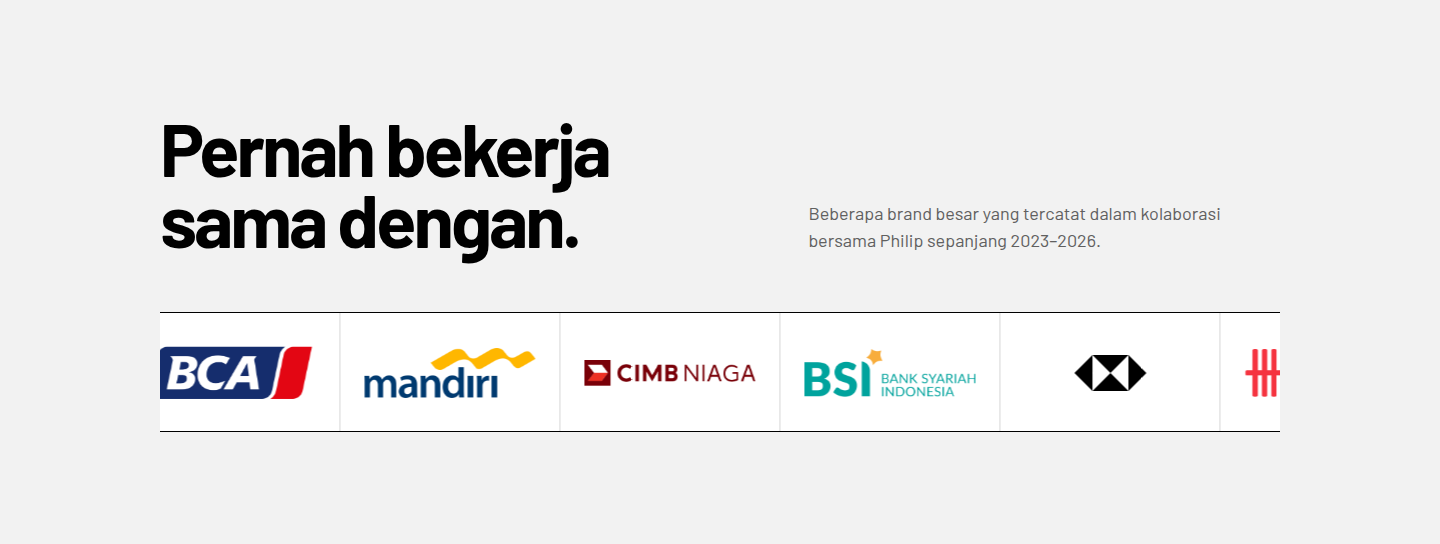
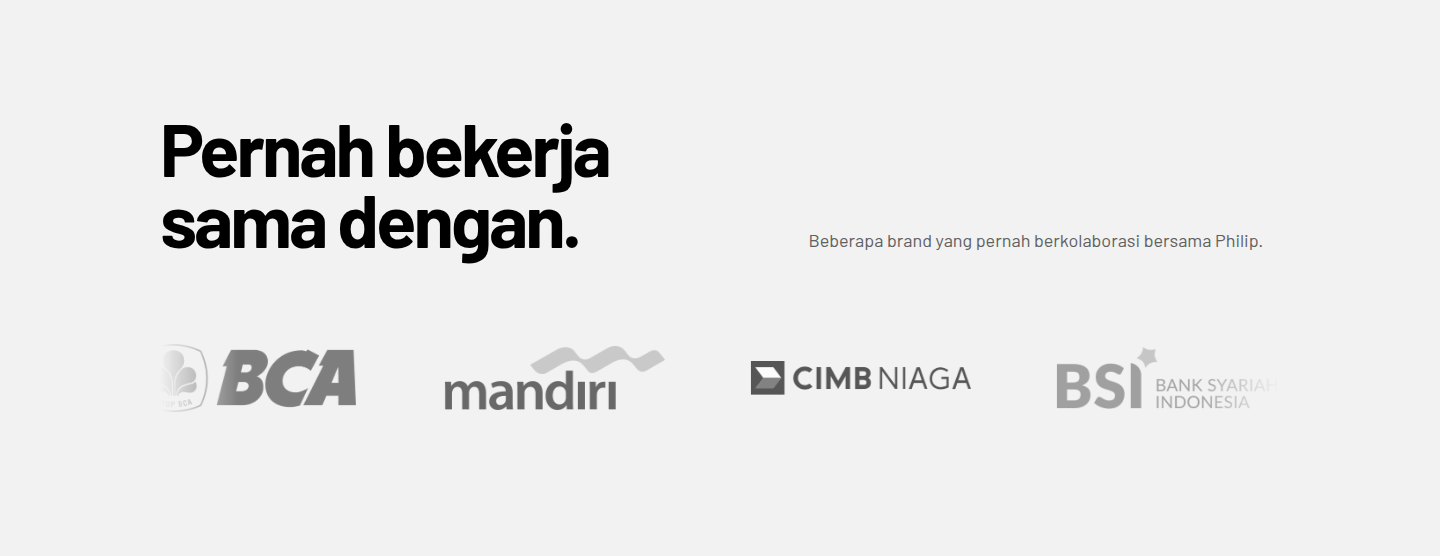
[verified] fix: repair mobile partner carousel (#16)

diff --git a/index.html b/index.html
@@ -10,7 +10,7 @@
   <link rel="preload" href="/assets/homepage/fonts/barlow-400.woff2" as="font" type="font/woff2" crossorigin>
   <link rel="preload" href="/assets/homepage/fonts/barlow-700.woff2" as="font" type="font/woff2" crossorigin>
   <link rel="preload" href="/assets/homepage/profile-photo.webp" as="image" type="image/webp">
-  <link rel="stylesheet" href="/assets/site/site.css">
+  <link rel="stylesheet" href="/assets/site/site.css?v=20260918-carousel2">
   <link rel="stylesheet" href="/assets/homepage/homepage.css">
   <meta property="og:type" content="website">
   <meta property="og:locale" content="id_ID">
@@ -62,27 +62,27 @@
       <div class="container">
         <div class="section-heading">
           <h2 id="company-proof-heading">Pernah bekerja sama dengan.</h2>
-          <p>Beberapa brand besar yang tercatat dalam kolaborasi bersama Philip sepanjang 2023–2026.</p>
+          <p>Beberapa brand yang pernah berkolaborasi bersama Philip.</p>
         </div>
         <p id="partner-motion-note" class="sr-only">Fokus pada carousel untuk menghentikan animasi.</p>
         <div class="partner-carousel" tabindex="0" aria-label="Carousel brand yang pernah bekerja sama dengan Philip Mulyana" aria-describedby="partner-motion-note">
           <div class="partner-track">
             <ul class="partner-logo-group" aria-label="Brand yang pernah bekerja sama dengan Philip Mulyana">
-              <li><img src="/assets/partners/bca.png" alt="Bank BCA" width="180" height="72" loading="lazy" decoding="async"></li>
+              <li><img src="/assets/partners/bca-official.png" alt="Bank BCA" width="180" height="72" loading="lazy" decoding="async"></li>
               <li><img src="/assets/partners/bank-mandiri.png" alt="Bank Mandiri" width="180" height="72" loading="lazy" decoding="async"></li>
               <li><img src="/assets/partners/cimb-niaga.png" alt="Bank CIMB Niaga" width="180" height="72" loading="lazy" decoding="async"></li>
               <li><img src="/assets/partners/bsi.png" alt="BSI (Bank Syariah Indonesia)" width="180" height="72" loading="lazy" decoding="async"></li>
-              <li><img src="/assets/partners/hsbc.svg" alt="HSBC" width="180" height="72" loading="lazy" decoding="async"></li>
+              <li><img src="/assets/partners/hsbc-wordmark.svg" alt="HSBC" width="180" height="72" loading="lazy" decoding="async"></li>
               <li><img src="/assets/partners/uob.png" alt="UOB" width="180" height="72" loading="lazy" decoding="async"></li>
               <li><img src="/assets/partners/visa.svg" alt="Visa" width="180" height="72" loading="lazy" decoding="async"></li>
               <li><img src="/assets/partners/pertamina.png" alt="Pertamina" width="180" height="72" loading="lazy" decoding="async"></li>
             </ul>
             <ul class="partner-logo-group" aria-hidden="true">
-              <li><img src="/assets/partners/bca.png" alt="" width="180" height="72" loading="lazy" decoding="async"></li>
+              <li><img src="/assets/partners/bca-official.png" alt="" width="180" height="72" loading="lazy" decoding="async"></li>
               <li><img src="/assets/partners/bank-mandiri.png" alt="" width="180" height="72" loading="lazy" decoding="async"></li>
               <li><img src="/assets/partners/cimb-niaga.png" alt="" width="180" height="72" loading="lazy" decoding="async"></li>
               <li><img src="/assets/partners/bsi.png" alt="" width="180" height="72" loading="lazy" decoding="async"></li>
-              <li><img src="/assets/partners/hsbc.svg" alt="" width="180" height="72" loading="lazy" decoding="async"></li>
+              <li><img src="/assets/partners/hsbc-wordmark.svg" alt="" width="180" height="72" loading="lazy" decoding="async"></li>
               <li><img src="/assets/partners/uob.png" alt="" width="180" height="72" loading="lazy" decoding="async"></li>
               <li><img src="/assets/partners/visa.svg" alt="" width="180" height="72" loading="lazy" decoding="async"></li>
               <li><img src="/assets/partners/pertamina.png" alt="" width="180" height="72" loading="lazy" decoding="async"></li>

diff --git a/assets/site/site.css b/assets/site/site.css
@@ -60,12 +60,13 @@ button,input,select{font:inherit}
 .fact+.fact{padding-left:24px;border-left:1px solid var(--line)}
 .fact strong{display:block;font-size:25px;line-height:1}
 .fact span{display:block;margin-top:7px;color:var(--muted);font-size:14px}
-.partner-proof{background:var(--soft)}
-.partner-carousel{overflow:hidden;border-block:1px solid var(--black);outline-offset:6px}
-.partner-track{display:flex;width:max-content;animation:partner-marquee 40s linear infinite;will-change:transform}
-.partner-logo-group{display:flex;flex:none;margin:0;padding:0;list-style:none}
-.partner-logo-group li{display:grid;width:220px;height:118px;padding:24px;place-items:center;border-right:1px solid var(--line);background:var(--white)}
-.partner-logo-group img{display:block;width:180px;height:72px;object-fit:contain}
+.partner-proof{overflow:hidden;background:var(--soft)}
+.partner-carousel{overflow:hidden;outline-offset:6px;-webkit-mask-image:linear-gradient(90deg,transparent 0,#000 7%,#000 93%,transparent 100%);mask-image:linear-gradient(90deg,transparent 0,#000 7%,#000 93%,transparent 100%)}
+.partner-track{display:flex;width:max-content;animation:partner-marquee 32s linear infinite;will-change:transform}
+.partner-logo-group{display:flex;flex:none;gap:clamp(44px,6vw,92px);margin:0;padding:20px clamp(22px,3vw,46px);list-style:none}
+.partner-logo-group li{display:grid;width:clamp(150px,17vw,220px);height:92px;padding:0;place-items:center}
+.partner-logo-group img{display:block;width:100%;height:68px;object-fit:contain;filter:grayscale(1);opacity:.56;transition:opacity .2s ease}
+.partner-carousel:hover .partner-logo-group img,.partner-carousel:focus-within .partner-logo-group img{opacity:.72}
 .partner-carousel:hover .partner-track,.partner-carousel:focus-within .partner-track{animation-play-state:paused}
 @keyframes partner-marquee{to{transform:translateX(-50%)}}
 .timeline{border-top:1px solid var(--black)}
@@ -136,8 +137,9 @@ button,input,select{font:inherit}
   .fact-grid{grid-template-columns:1fr}
   .fact,.fact+.fact{padding:18px 0;border-left:0}
   .fact+.fact{border-top:1px solid var(--line)}
-  .partner-logo-group li{width:172px;height:96px;padding:18px}
-  .partner-logo-group img{width:136px;height:58px}
+  .partner-logo-group{gap:34px;padding:14px 24px}
+  .partner-logo-group li{width:148px;height:84px}
+  .partner-logo-group img{height:58px}
   .timeline-item{grid-template-columns:82px 1fr;gap:20px}
   .timeline-item time{font-size:23px}
   .row-link,.row-item,.tool-row{grid-template-columns:1fr 26px;gap:12px;padding:24px 0}
@@ -165,7 +167,7 @@ button,input,select{font:inherit}
 @media (prefers-reduced-motion:reduce){
   html{scroll-behavior:auto}
   *,*::before,*::after{transition-duration:.01ms!important;animation-duration:.01ms!important;animation-iteration-count:1!important}
-  .partner-carousel{overflow:visible}
+  .partner-carousel{overflow:visible;-webkit-mask-image:none;mask-image:none}
   .partner-track{display:block;width:auto;animation:none!important;will-change:auto}
   .partner-logo-group:first-child{display:grid;grid-template-columns:repeat(4,minmax(0,1fr))}
   .partner-logo-group:first-child li{width:auto}

diff --git a/tests/test_multipage_redesign.py b/tests/test_multipage_redesign.py
@@ -1,3 +1,4 @@
+import hashlib
 import json
 import re
 import unittest
@@ -93,11 +94,11 @@ class HomepageContract(unittest.TestCase):
 
     def test_homepage_partner_proof_is_lightweight_accessible_logo_carousel(self):
         expected_partners = {
-            "Bank BCA": "bca.png",
+            "Bank BCA": "bca-official.png",
             "Bank Mandiri": "bank-mandiri.png",
             "Bank CIMB Niaga": "cimb-niaga.png",
             "BSI (Bank Syariah Indonesia)": "bsi.png",
-            "HSBC": "hsbc.svg",
+            "HSBC": "hsbc-wordmark.svg",
             "Pertamina": "pertamina.png",
             "UOB": "uob.png",
             "Visa": "visa.svg",
@@ -115,6 +116,7 @@ class HomepageContract(unittest.TestCase):
         attributes, section = section_match.groups()
         self.assertNotIn("hidden", attributes)
         self.assertIn("Pernah bekerja sama dengan", section)
+        self.assertNotIn("2023–2026", section)
         self.assertNotIn("49 brand", section)
         self.assertIn('class="partner-carousel"', section)
         self.assertIn('aria-describedby="partner-motion-note"', section)
@@ -169,6 +171,36 @@ class HomepageContract(unittest.TestCase):
             self.assertNotIn(insurance_brand, section)
         for placeholder in ("Brand 1", "Brand 2", "Brand 3", "Brand 4", "Brand 5", "Brand 6"):
             self.assertNotIn(placeholder, section)
+
+    def test_homepage_partner_carousel_uses_fresh_css_and_verified_full_wordmarks(self):
+        self.assertIn(
+            'href="/assets/site/site.css?v=20260918-carousel2"',
+            self.html,
+        )
+
+        expected_asset_hashes = {
[2 lines of base64/hex data omitted]
+        }
+        for relative_path, expected_hash in expected_asset_hashes.items():
+            actual_hash = hashlib.sha256((ROOT / relative_path).read_bytes()).hexdigest()
+            self.assertEqual(actual_hash, expected_hash, relative_path)
+
+        provenance = read("assets/partners/PROVENANCE.md")
+        self.assertIn("https://www.bca.co.id/id/tentang-bca/media-riset/pressroom/Brand-Assets", provenance)
+        self.assertIn("https://commons.wikimedia.org/wiki/File:HSBC_logo_(2018).svg", provenance)
+        self.assertNotIn("File:BCA_logo.svg", provenance)
+        self.assertNotIn("simple-icons/simple-icons/blob/16.31.0/icons/hsbc.svg", provenance)
+
+        css = read("assets/site/site.css")
+        partner_css = css[css.index(".partner-proof"):css.index(".timeline")]
+        compact_partner_css = re.sub(r"\s+", "", partner_css)
+        self.assertIn("filter:grayscale(1)", compact_partner_css)
+        self.assertIn("opacity:.56", compact_partner_css)
+        self.assertIn("mask-image:linear-gradient", compact_partner_css)
+        self.assertIn("-webkit-mask-image:linear-gradient", compact_partner_css)
+        self.assertNotIn("border-right", compact_partner_css)
+        self.assertNotIn("background:var(--white)", compact_partner_css)
 
     def test_homepage_latest_articles_match_three_latest_valid_static_posts(self):
         posts = json.loads(read("data/posts.json"))["posts"]

diff --git a/assets/partners/PROVENANCE.md b/assets/partners/PROVENANCE.md
@@ -12,13 +12,13 @@ The carousel is a selected set of broadly recognizable, non-insurance brands. It
 
 | Local file | Brand | Source page | Derivative |
 |---|---|---|---|
-| `bca.png` | Bank BCA | https://commons.wikimedia.org/wiki/File:BCA_logo.svg | 500 px PNG rendered by Wikimedia Commons |
+| `bca-official.png` | Bank BCA | https://www.bca.co.id/id/tentang-bca/media-riset/pressroom/Brand-Assets | Official blue BCA logo; transparent outer canvas trimmed, then proportionally resized to 500 × 157 px and losslessly optimized; no visible logo pixel was cropped, recolored, or reshaped |
 | `bank-mandiri.png` | Bank Mandiri | https://commons.wikimedia.org/wiki/File:Bank_Mandiri_logo_2016.svg | 500 px PNG rendered by Wikimedia Commons |
 | `cimb-niaga.png` | Bank CIMB Niaga | https://commons.wikimedia.org/wiki/File:CIMB_Niaga_logo.svg | 500 px PNG rendered by Wikimedia Commons |
 | `bsi.png` | BSI (Bank Syariah Indonesia) | https://commons.wikimedia.org/wiki/File:Bank_Syariah_Indonesia.svg | 500 px PNG rendered by Wikimedia Commons |
 | `pertamina.png` | Pertamina | https://commons.wikimedia.org/wiki/File:Pertamina_Logo.svg | 500 px PNG rendered by Wikimedia Commons |
 | `uob.png` | UOB | https://commons.wikimedia.org/wiki/File:UOB_Logo_(2022).svg | 500 px PNG rendered by Wikimedia Commons |
-| `hsbc.svg` | HSBC | https://github.com/simple-icons/simple-icons/blob/16.31.0/icons/hsbc.svg | Local copy from Simple Icons 16.31.0 |
+| `hsbc-wordmark.svg` | HSBC | https://commons.wikimedia.org/wiki/File:HSBC_logo_(2018).svg | Complete 2018 HSBC emblem and wordmark; source identifies HSBC as author and links to HSBC's original masterbrand SVG |
 | `visa.svg` | Visa | https://github.com/simple-icons/simple-icons/blob/16.31.0/icons/visa.svg | Local copy from Simple Icons 16.31.0 |
 
 Simple Icons is distributed under CC0-1.0: https://github.com/simple-icons/simple-icons/blob/16.31.0/LICENSE.md
